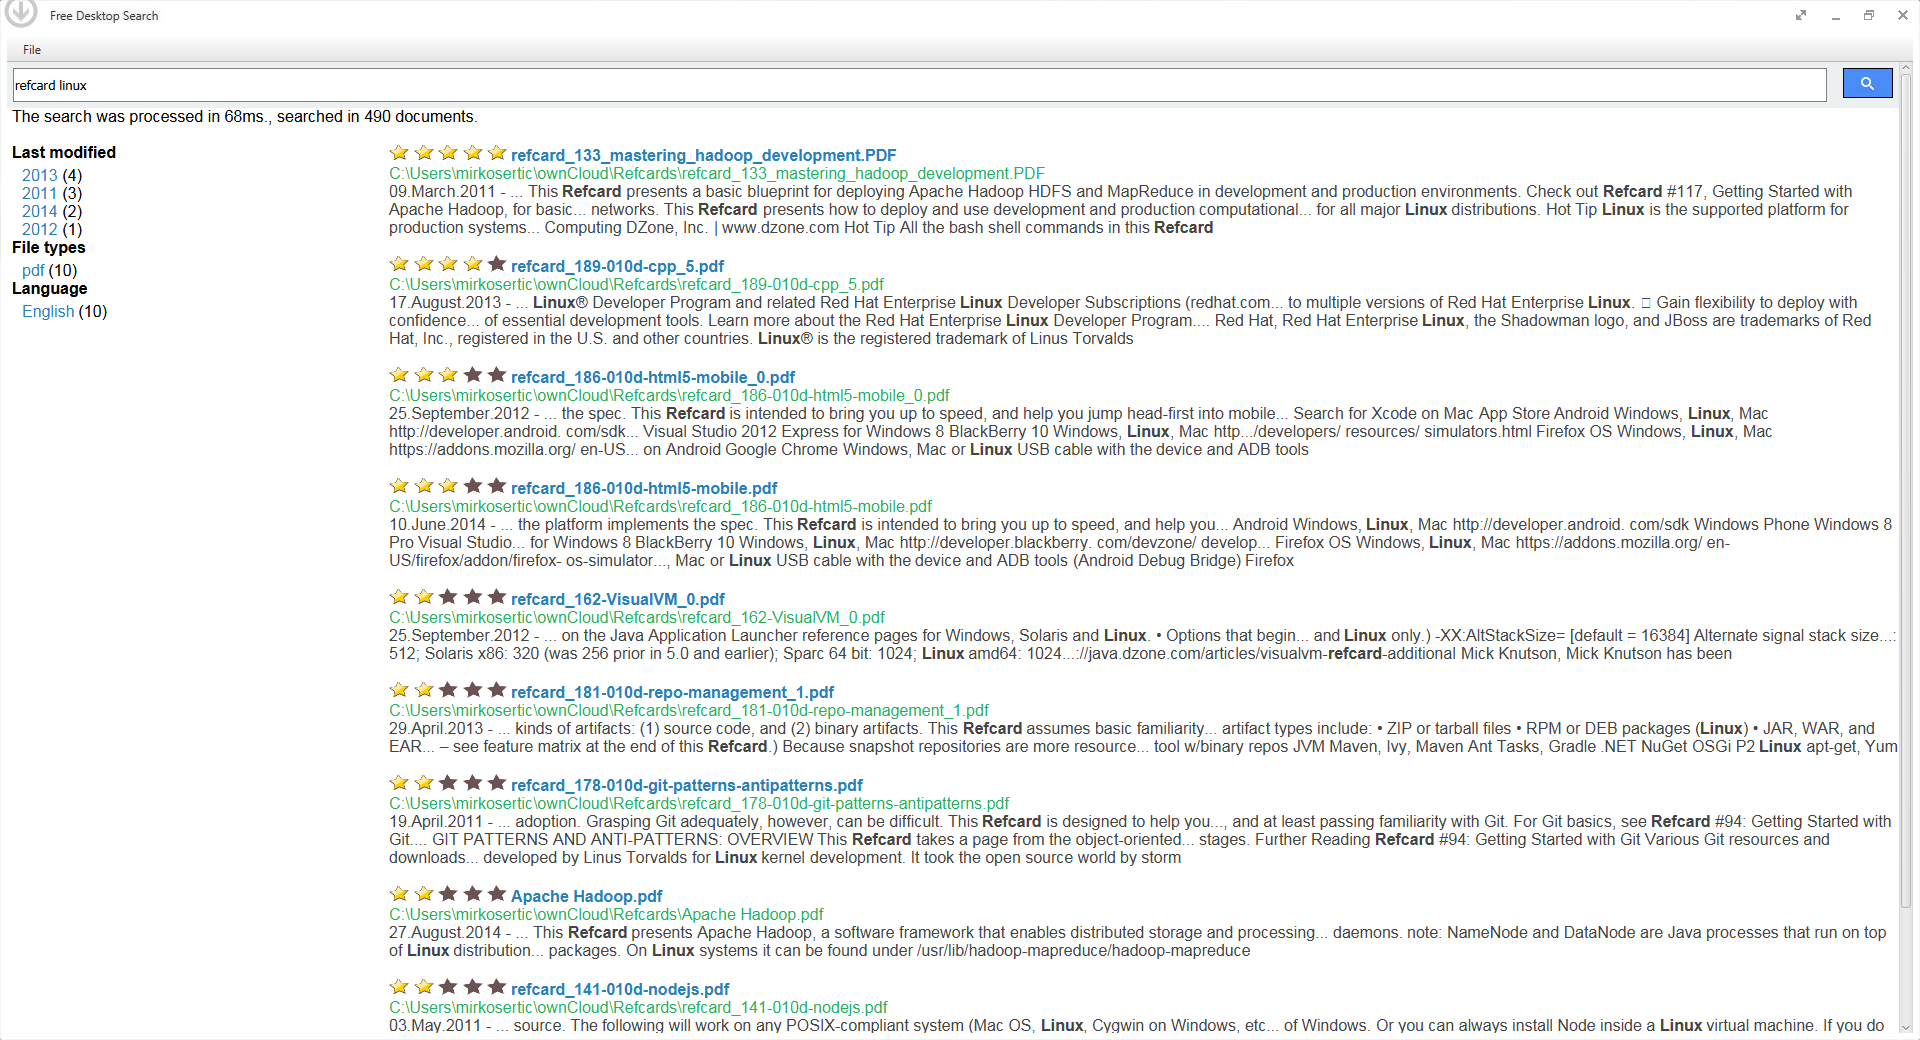
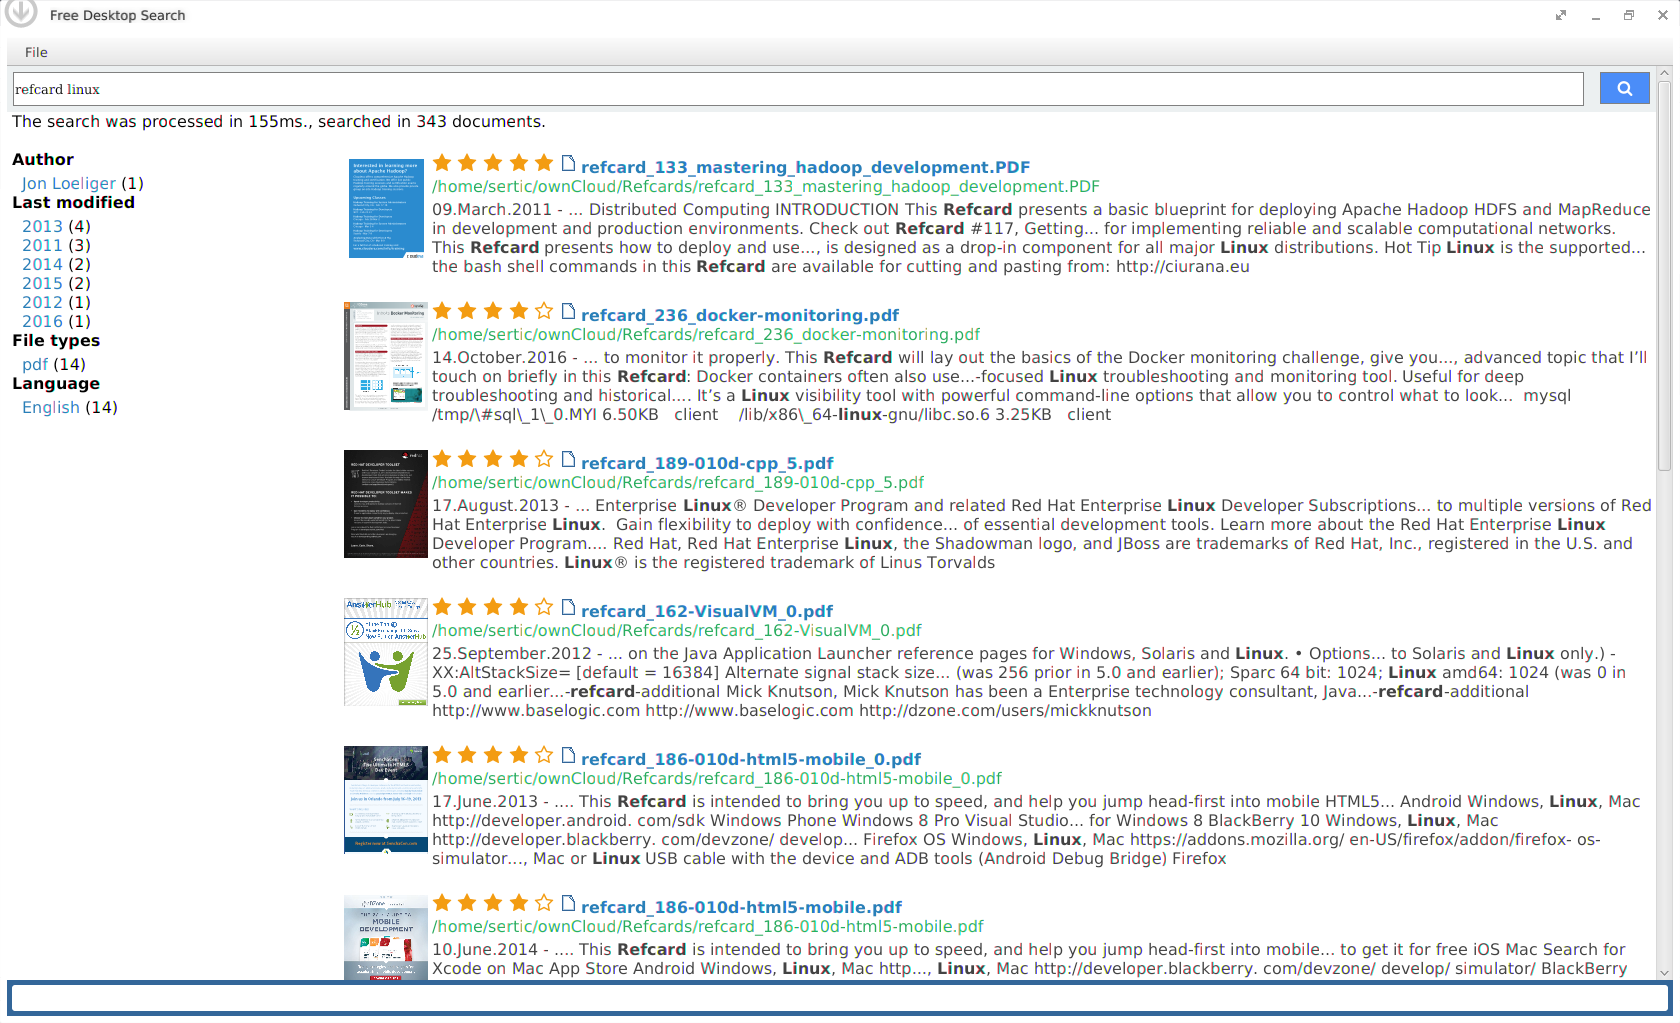
Fixed #21 Optimize search result display with nicer colors and symbols

Changed region(s): [[0.0, 0.0, 1.0, 1.0]]

diff --git a/src/main/resources/webapp/webapp.css b/src/main/resources/webapp/webapp.css
@@ -52,16 +52,18 @@ input:focus {
 .submitbutton {
     border: 1px solid gray;
     background-color: rgb(75,141,248);
-    background-image: url(searchbutton.png);
+    background-image: url(search-white.svg);
+    background-size: 16px 16px;
     background-repeat: no-repeat;
     background-position: center;
     width: 50px;
-    height: 30px;
+    height: 32px;
     float: right;
 }
 
 .submitbutton:hover {
     border: 1px solid black;
+    cursor: pointer;
 }
 
 .searchResult {
@@ -110,8 +112,16 @@ input:focus {
     text-decoration: none;
 }
 
+.searchResultAreaFileName:hover {
+    cursor: pointer;
+}
+
 .searchResultAreaFileNameComplete {
     color: #27ae60;
+}
+
+.searchResultAreaFileNameComplete:hover {
+    cursor: pointer;
 }
 
 .searchResultAreaContentHighlighted {
@@ -121,6 +131,10 @@ input:focus {
 .searchResultAreaResultSimilar {
     color: #27ae60;
     padding-left: 20px;
+}
+
+.searchResultAreaResultSimilar:hover {
+    cursor: pointer;
 }
 
 .logoDiv {

diff --git a/src/main/java/de/mirkosertic/desktopsearch/FrontendEmbeddedWebServer.java b/src/main/java/de/mirkosertic/desktopsearch/FrontendEmbeddedWebServer.java
@@ -37,7 +37,6 @@ class FrontendEmbeddedWebServer {
         theWebApp.addServlet(new ServletHolder(new SearchServlet(aBackend, "http://127.0.0.1:" + PORT_NUMMER)), SearchServlet.URL + "/*");
         theWebApp.addServlet(new ServletHolder(new BringToFrontServlet(aStage)), BringToFrontServlet.URL);
         theWebApp.addServlet(new ServletHolder(new SuggestionServlet(aBackend)), SuggestionServlet.URL);
-        theWebApp.addServlet(new ServletHolder(new ConfigurationServlet(aConfigurationManager, "http://127.0.0.1:" + PORT_NUMMER)), ConfigurationServlet.URL);
         theWebApp.addServlet(new ServletHolder(new ThumbnailServlet(aBackend, aPreviewProcessor)), ThumbnailServlet.URL + "/*");
 
         jetty.setHandler(theWebApp);
